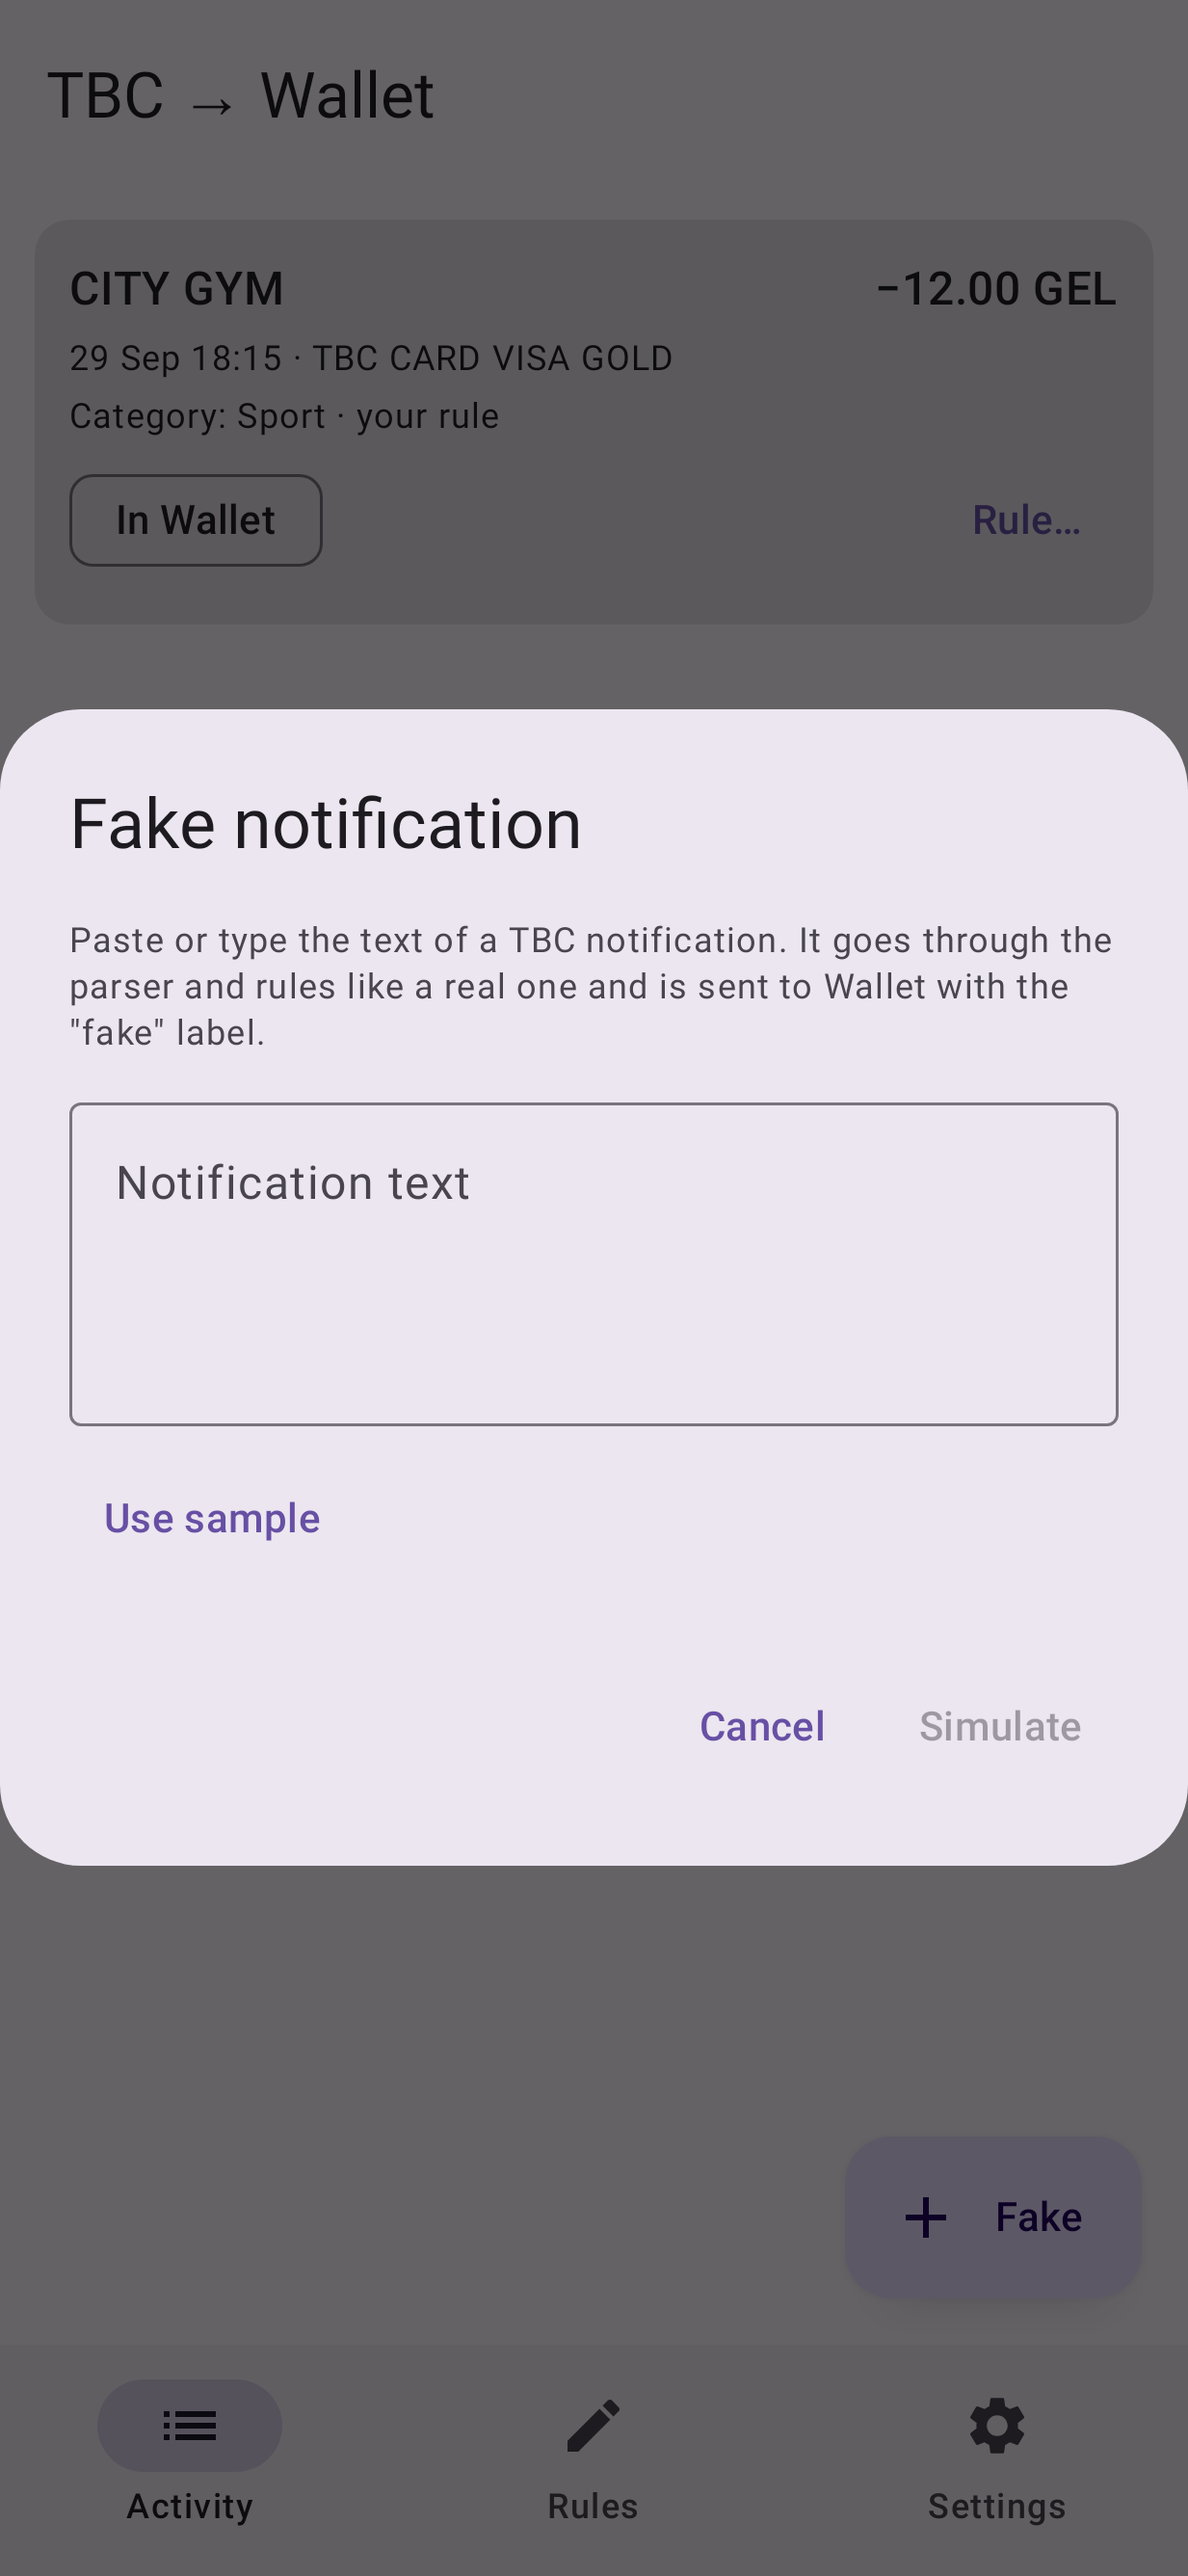
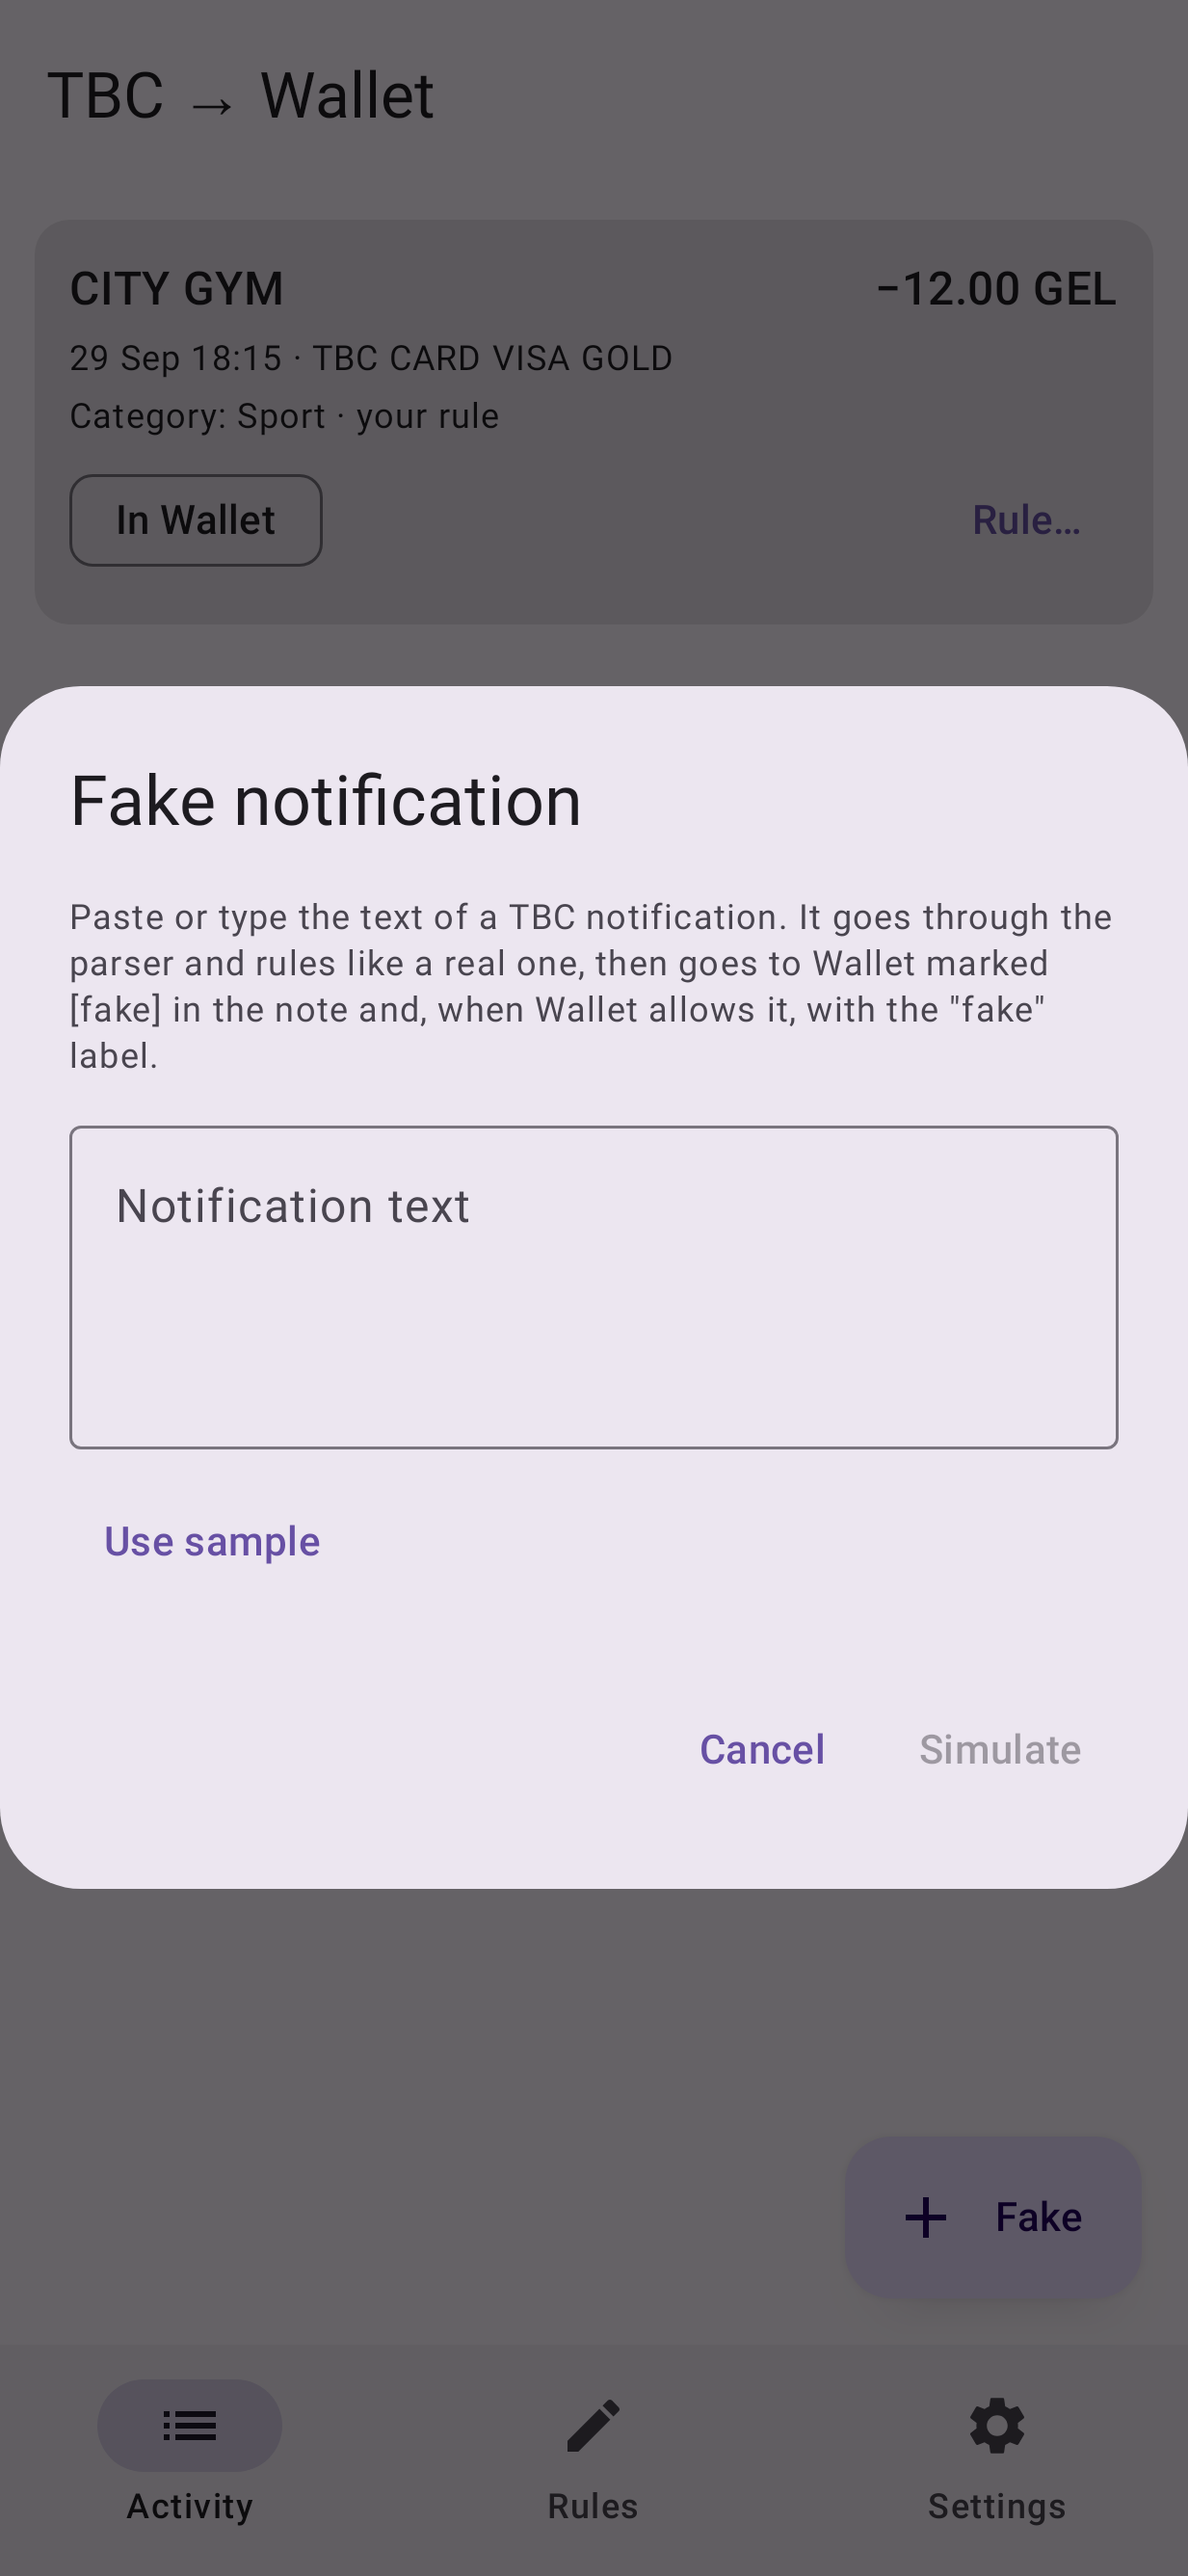
Date the sample now, qualify the label promise, check accounts before deferring fakes, forget the cached label on token change
Claude-Session: https://claude.ai/code/session_01GsYuV1LMHETHxst3u8iPv8

diff --git a/app/src/main/java/su/iho/tbc2wallet/MainActivity.kt b/app/src/main/java/su/iho/tbc2wallet/MainActivity.kt
@@ -242,7 +242,12 @@ private fun statusLabel(s: TxStatus) = when (s) {
     TxStatus.IGNORED -> "Ignored"
 }
 
-private const val FAKE_SAMPLE = "42.10 GEL\nTBC CARD VISA GOLD (***1234)\nShopsy 29/09/26 23:28\nBalance: 1500.00 GEL"
+/** A purchase dated now in Tbilisi time, so the simulated record lands in today's Wallet activity. */
+private fun fakeSample(): String {
+    val now = java.time.ZonedDateTime.now(su.iho.tbc2wallet.ingest.Ingest.BANK_ZONE)
+    val stamp = now.format(DateTimeFormatter.ofPattern("dd/MM/yy HH:mm"))
+    return "42.10 GEL\nTBC CARD VISA GOLD (***1234)\nShopsy $stamp\nBalance: 1500.00 GEL"
+}
 
 @Composable
 private fun FakeNotificationDialog(onSubmit: (String) -> Unit, onDismiss: () -> Unit) {
@@ -254,18 +259,19 @@ private fun FakeNotificationDialog(onSubmit: (String) -> Unit, onDismiss: () -> 
             Column(verticalArrangement = Arrangement.spacedBy(8.dp)) {
                 Text(
                     "Paste or type the text of a TBC notification. It goes through the parser and rules " +
-                        "like a real one and is sent to Wallet with the \"fake\" label.",
+                        "like a real one, then goes to Wallet marked [fake] in the note and, when Wallet allows it, " +
+                        "with the \"fake\" label.",
                     style = MaterialTheme.typography.bodySmall,
                 )
                 OutlinedTextField(
                     text, { text = it },
                     label = { Text("Notification text") },
-                    placeholder = { Text(FAKE_SAMPLE, fontFamily = FontFamily.Monospace) },
+                    placeholder = { Text(fakeSample(), fontFamily = FontFamily.Monospace) },
                     textStyle = MaterialTheme.typography.bodyMedium.copy(fontFamily = FontFamily.Monospace),
                     minLines = 4,
                     modifier = Modifier.fillMaxWidth(),
                 )
-                TextButton(onClick = { text = FAKE_SAMPLE }) { Text("Use sample") }
+                TextButton(onClick = { text = fakeSample() }) { Text("Use sample") }
             }
         },
         confirmButton = { TextButton(enabled = text.isNotBlank(), onClick = { onSubmit(text) }) { Text("Simulate") } },

diff --git a/app/src/main/java/su/iho/tbc2wallet/sync/SyncWorker.kt b/app/src/main/java/su/iho/tbc2wallet/sync/SyncWorker.kt
@@ -82,7 +82,6 @@ class SyncWorker(context: Context, params: WorkerParameters) : CoroutineWorker(c
         val ready = mutableListOf<Pair<TransactionEntity, WalletApi.NewRecord>>()
 
         for (tx in queue) {
-            if (tx.isFake && fakesDeferred) continue
             val currency = tx.currency ?: continue
             val accountId = settings.accountFor(currency)
             if (accountId == null) {
@@ -90,6 +89,7 @@ class SyncWorker(context: Context, params: WorkerParameters) : CoroutineWorker(c
                 if (tx.status != TxStatus.NEEDS_ACCOUNT) dao.upsertTx(tx.copy(status = TxStatus.NEEDS_ACCOUNT))
                 continue
             }
+            if (tx.isFake && fakesDeferred) continue
             val kind = TxKind.valueOf(tx.kind!!)
             val decision = resolver.resolve(kind, tx.counterParty, accountId)
             val value = tx.amount!!.toBigDecimal().let { if (kind == TxKind.EXPENSE) it.negate() else it }

diff --git a/app/src/main/java/su/iho/tbc2wallet/MainViewModel.kt b/app/src/main/java/su/iho/tbc2wallet/MainViewModel.kt
@@ -55,6 +55,7 @@ class MainViewModel(app: Application) : AndroidViewModel(app) {
 
     fun saveToken(token: String) {
         settings.apiToken = token
+        settings.recentFakeLabel = null   // it belonged to the previous token's Wallet
         _settingsVersion.value++
         refreshFromWallet(learn = true)
     }
